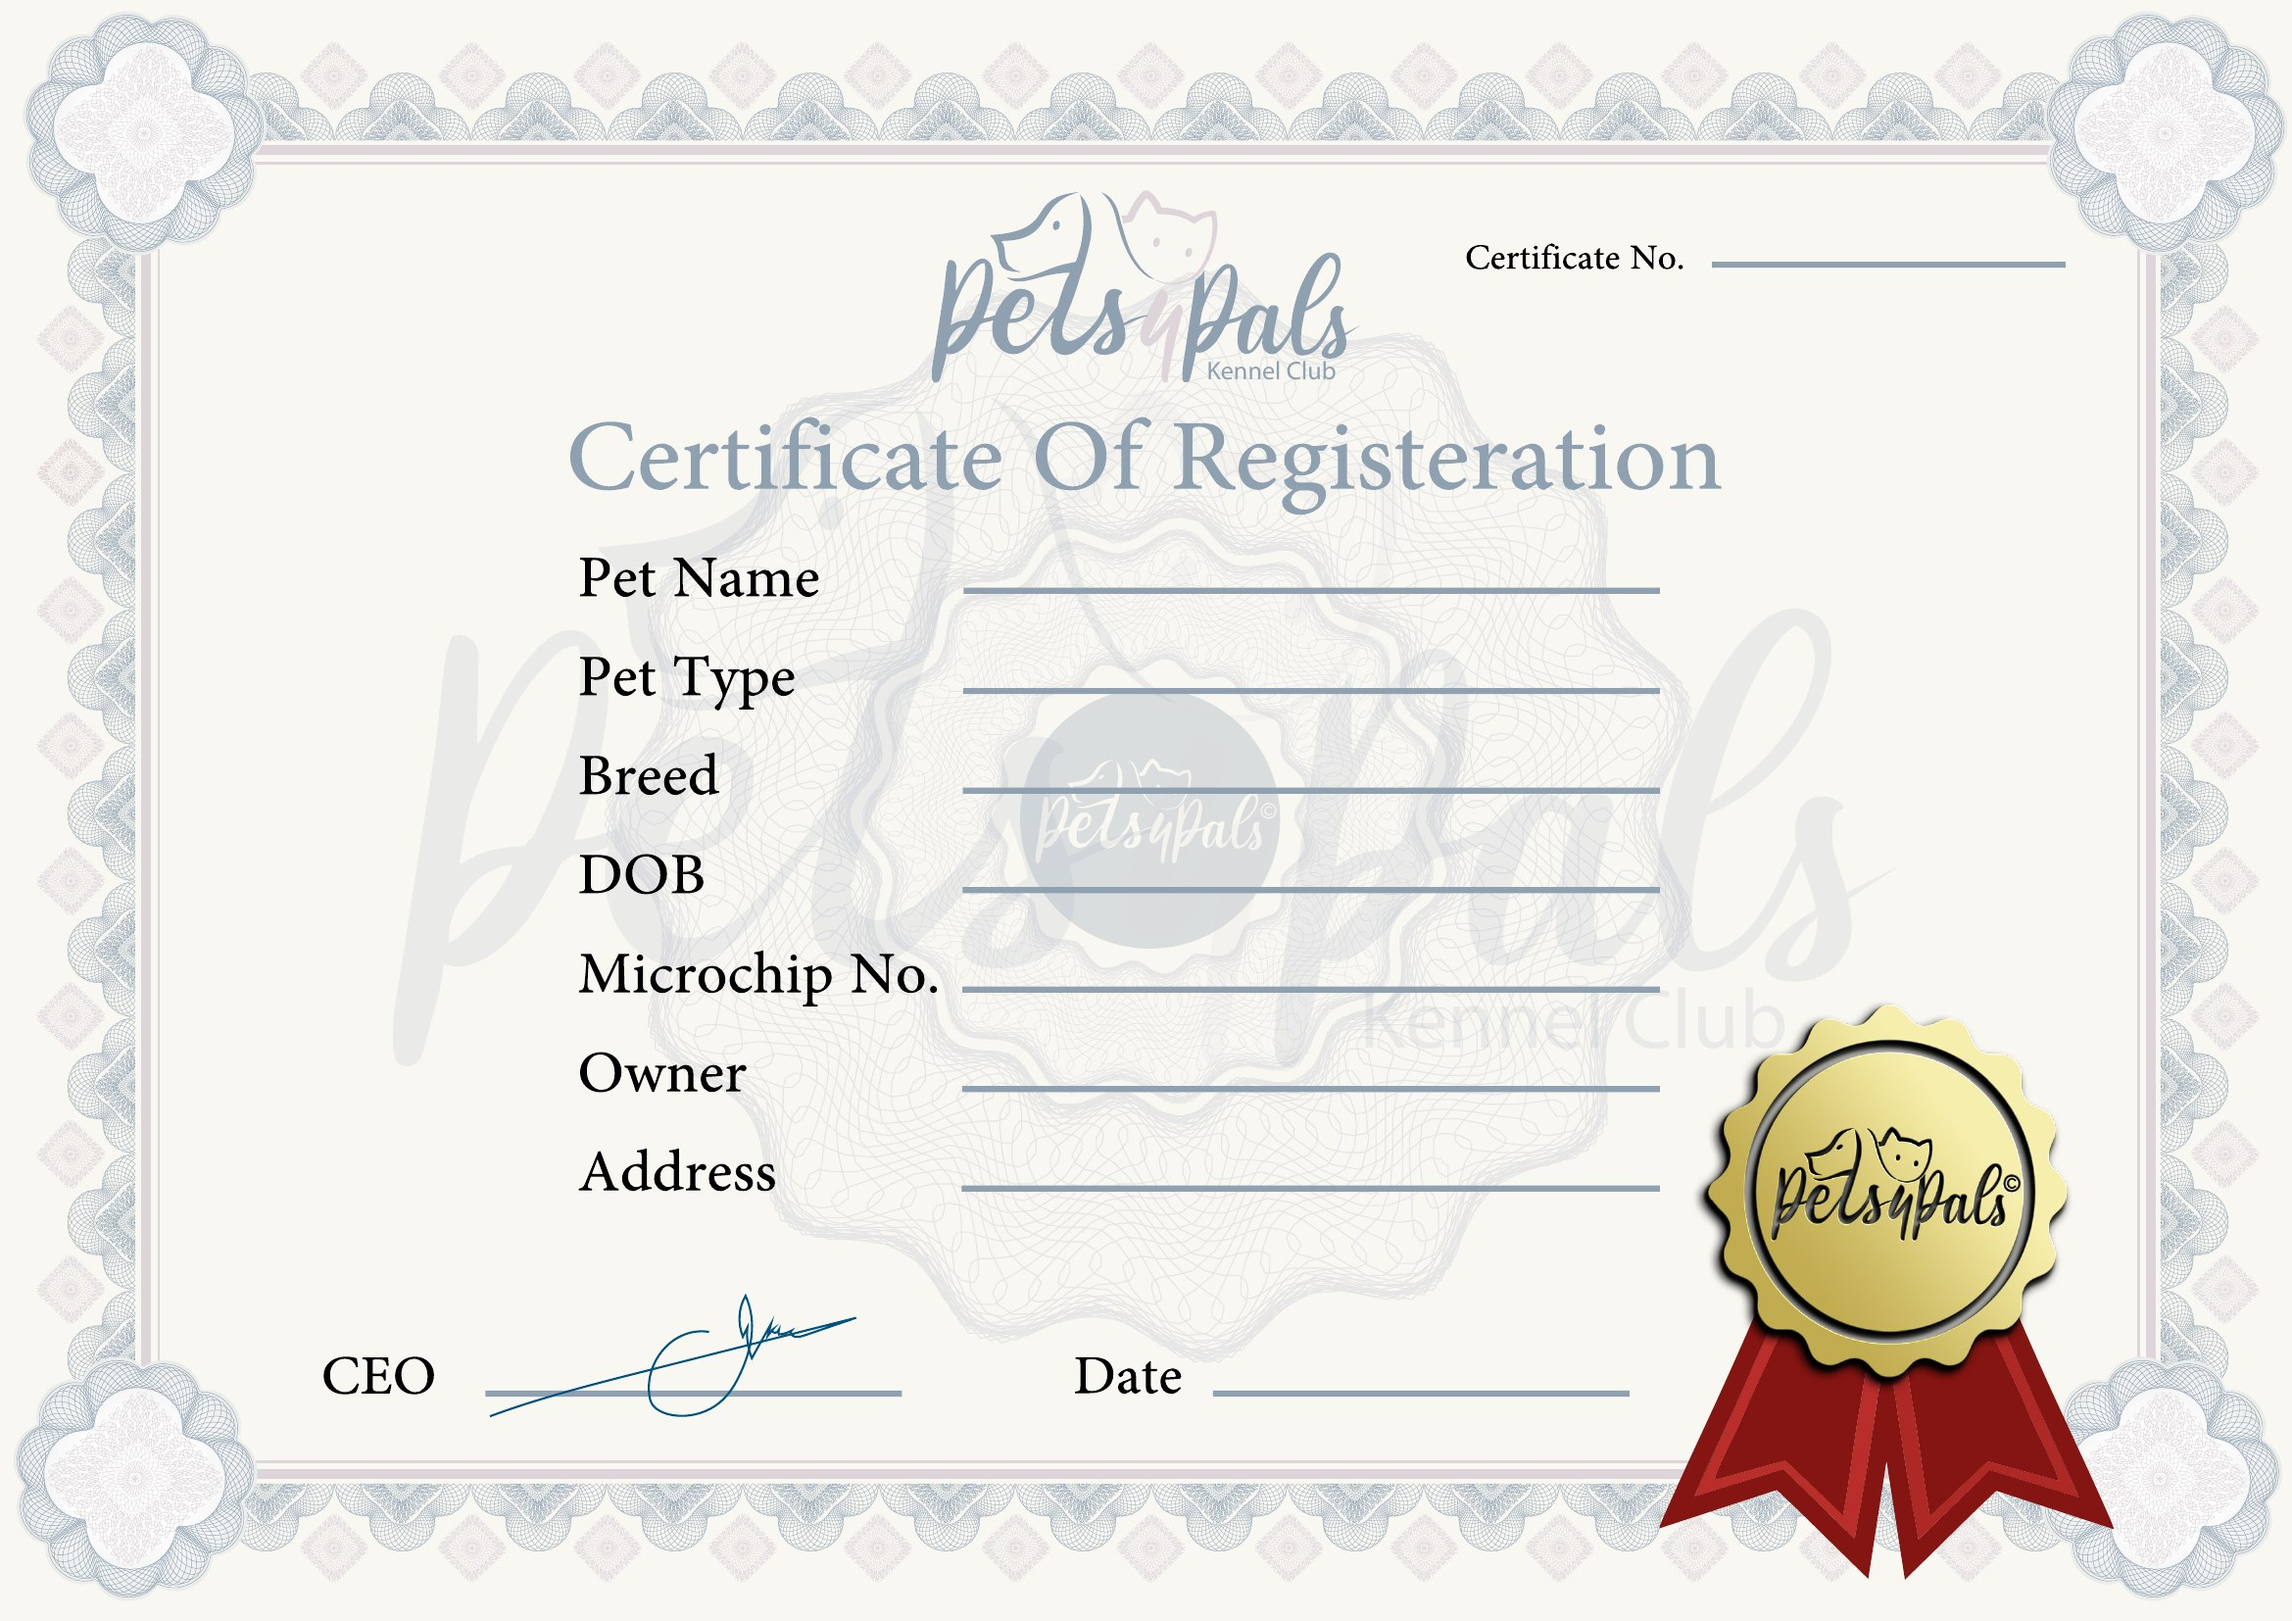
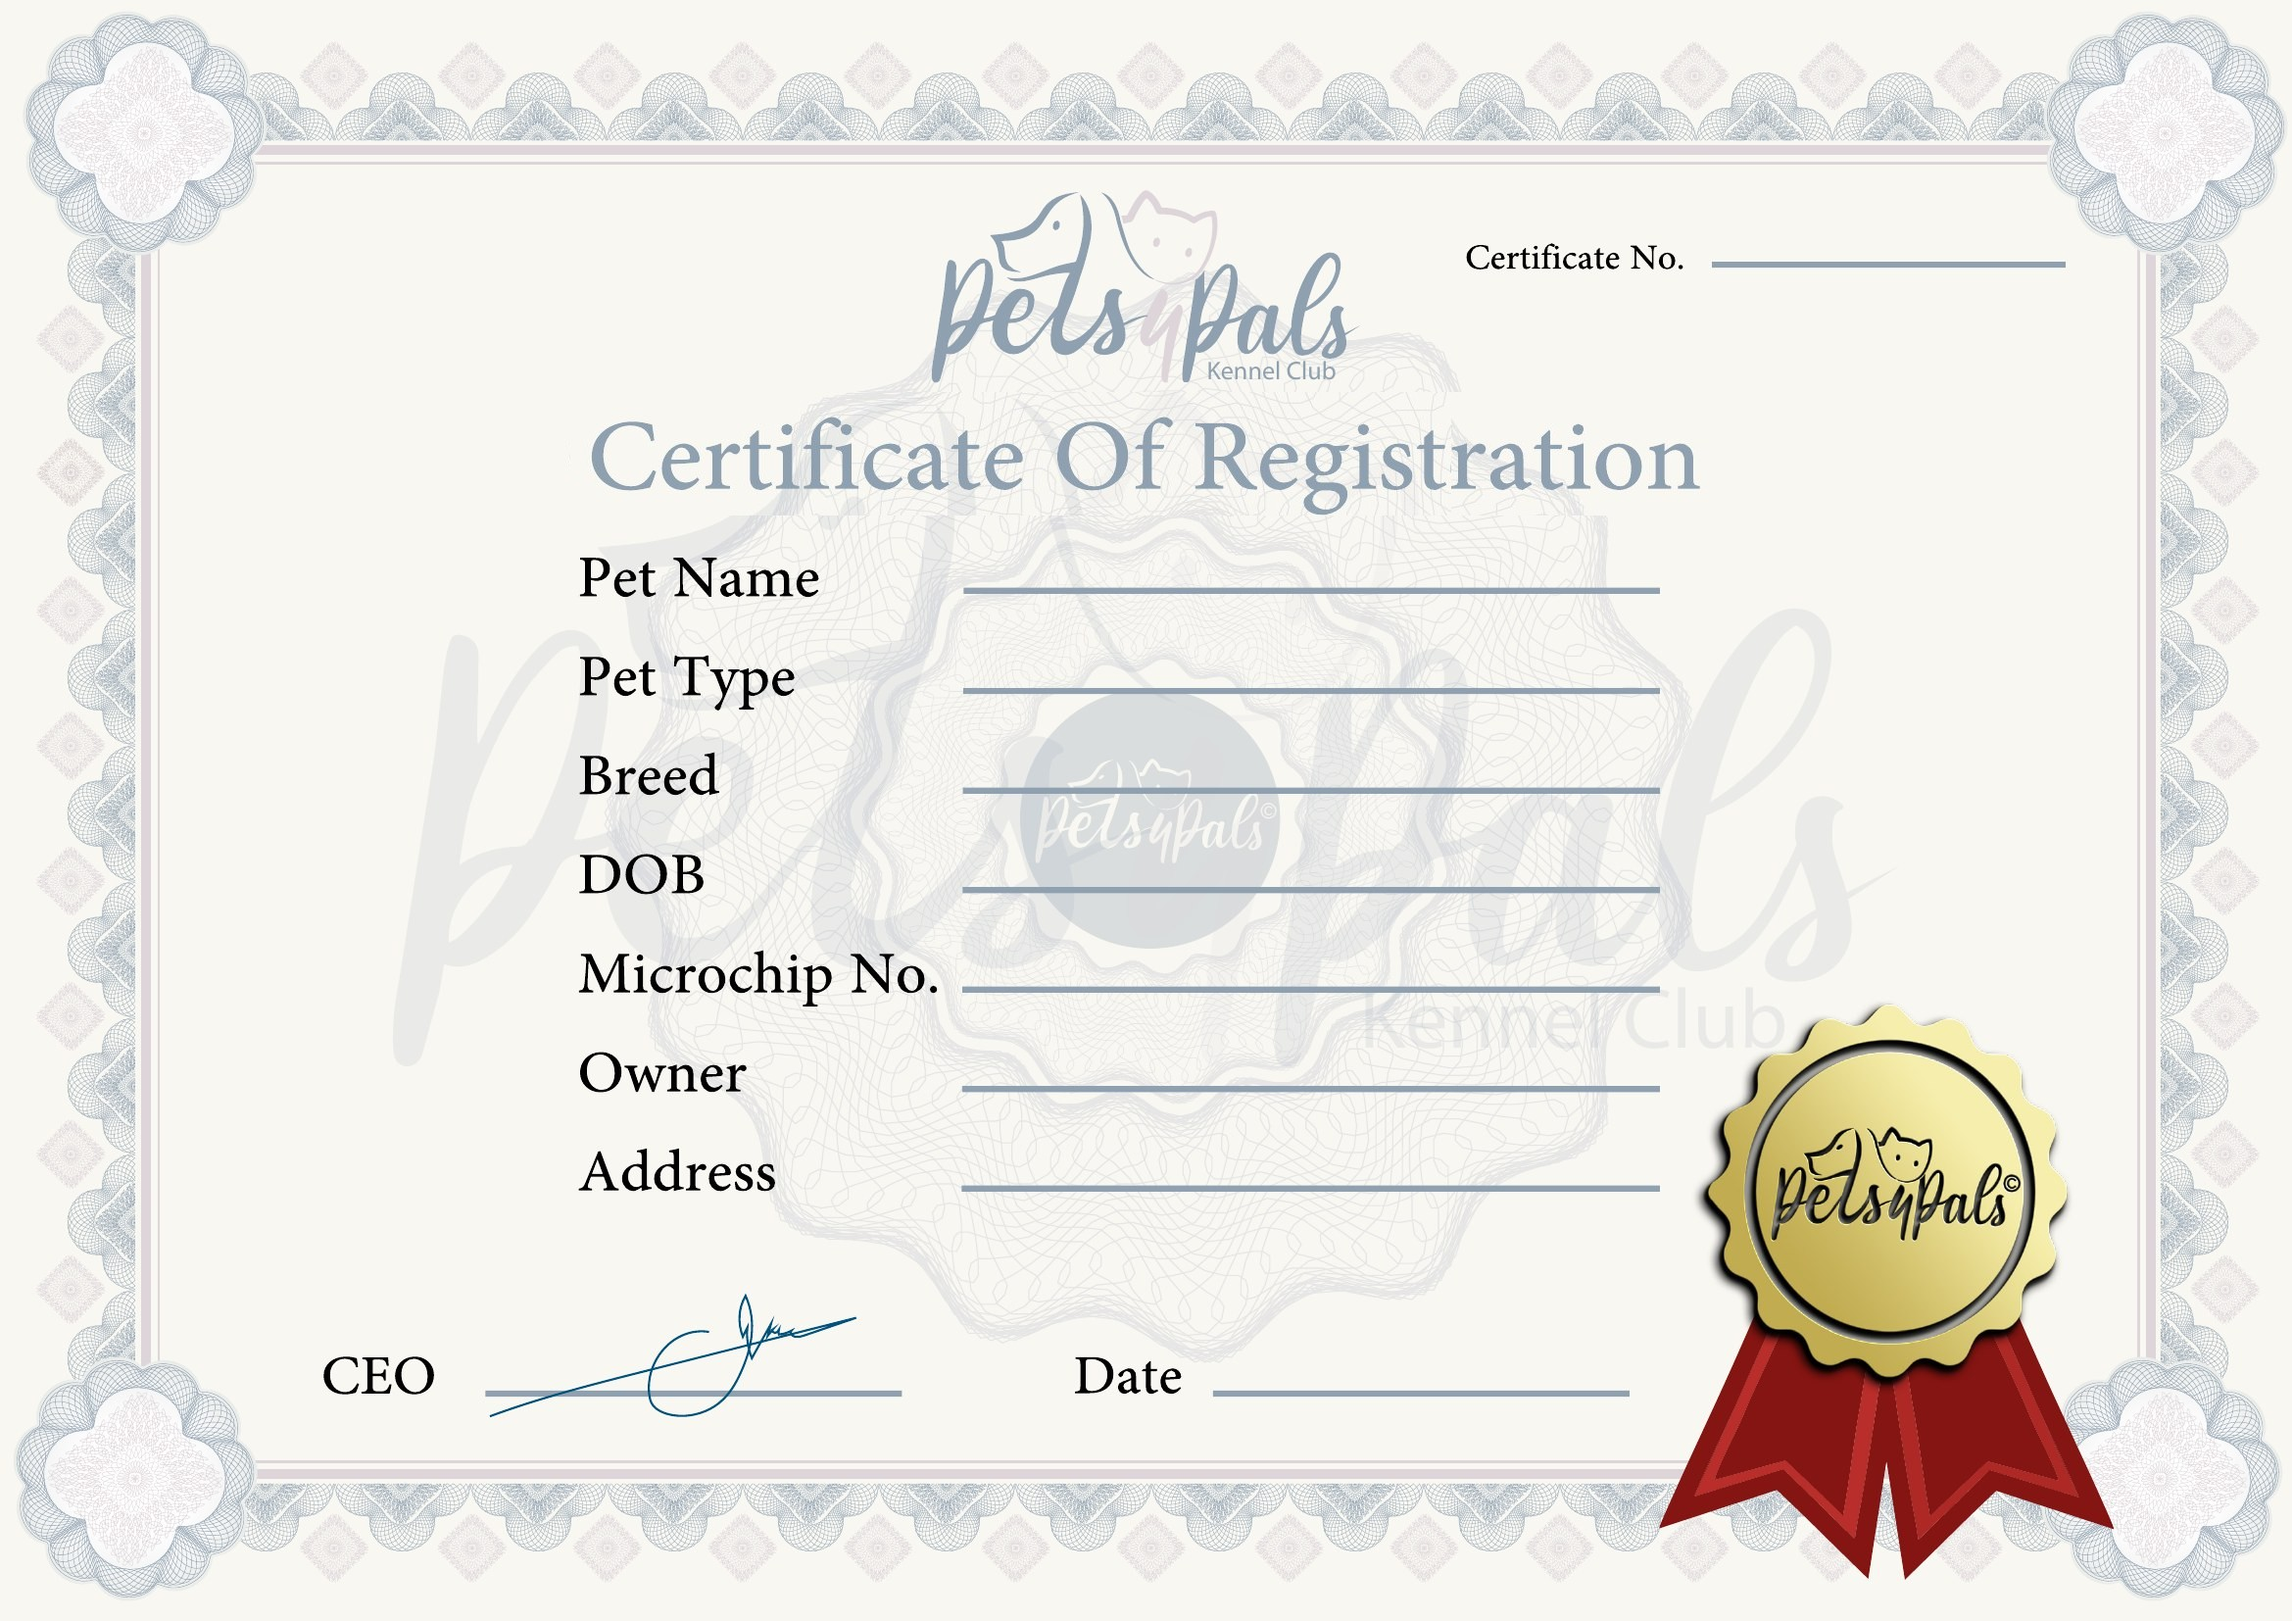
Deploy: certificate title spelling fix
Claude-Session: https://claude.ai/code/session_01NhfTdWwo7tWUzPmNHto6uL

Changed region(s): [[0.2497, 0.2467, 0.749, 0.3392]]

diff --git a/flutter_bootstrap.js b/flutter_bootstrap.js
@@ -42,6 +42,6 @@ _flutter.buildConfig = {"engineRevision":"deb287481e3ce9468f3434937ced4240a70539
 
 _flutter.loader.load({
   serviceWorkerSettings: {
-    serviceWorkerVersion: "2768101429" /* Flutter's service worker is deprecated and will be removed in a future Flutter release. */
+    serviceWorkerVersion: "414467349" /* Flutter's service worker is deprecated and will be removed in a future Flutter release. */
   }
 });
